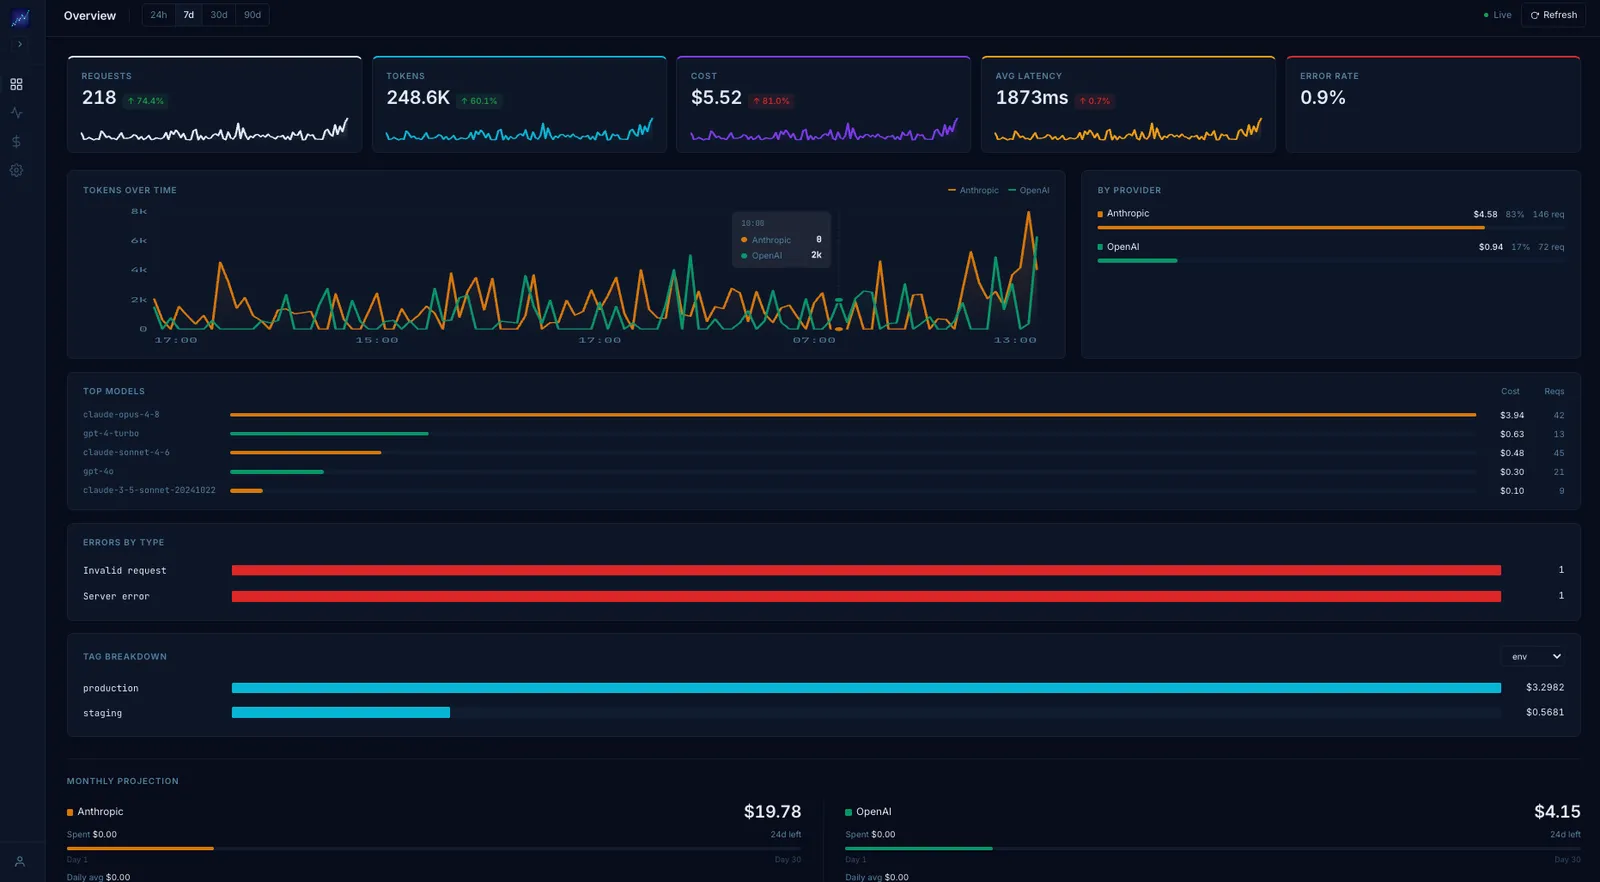
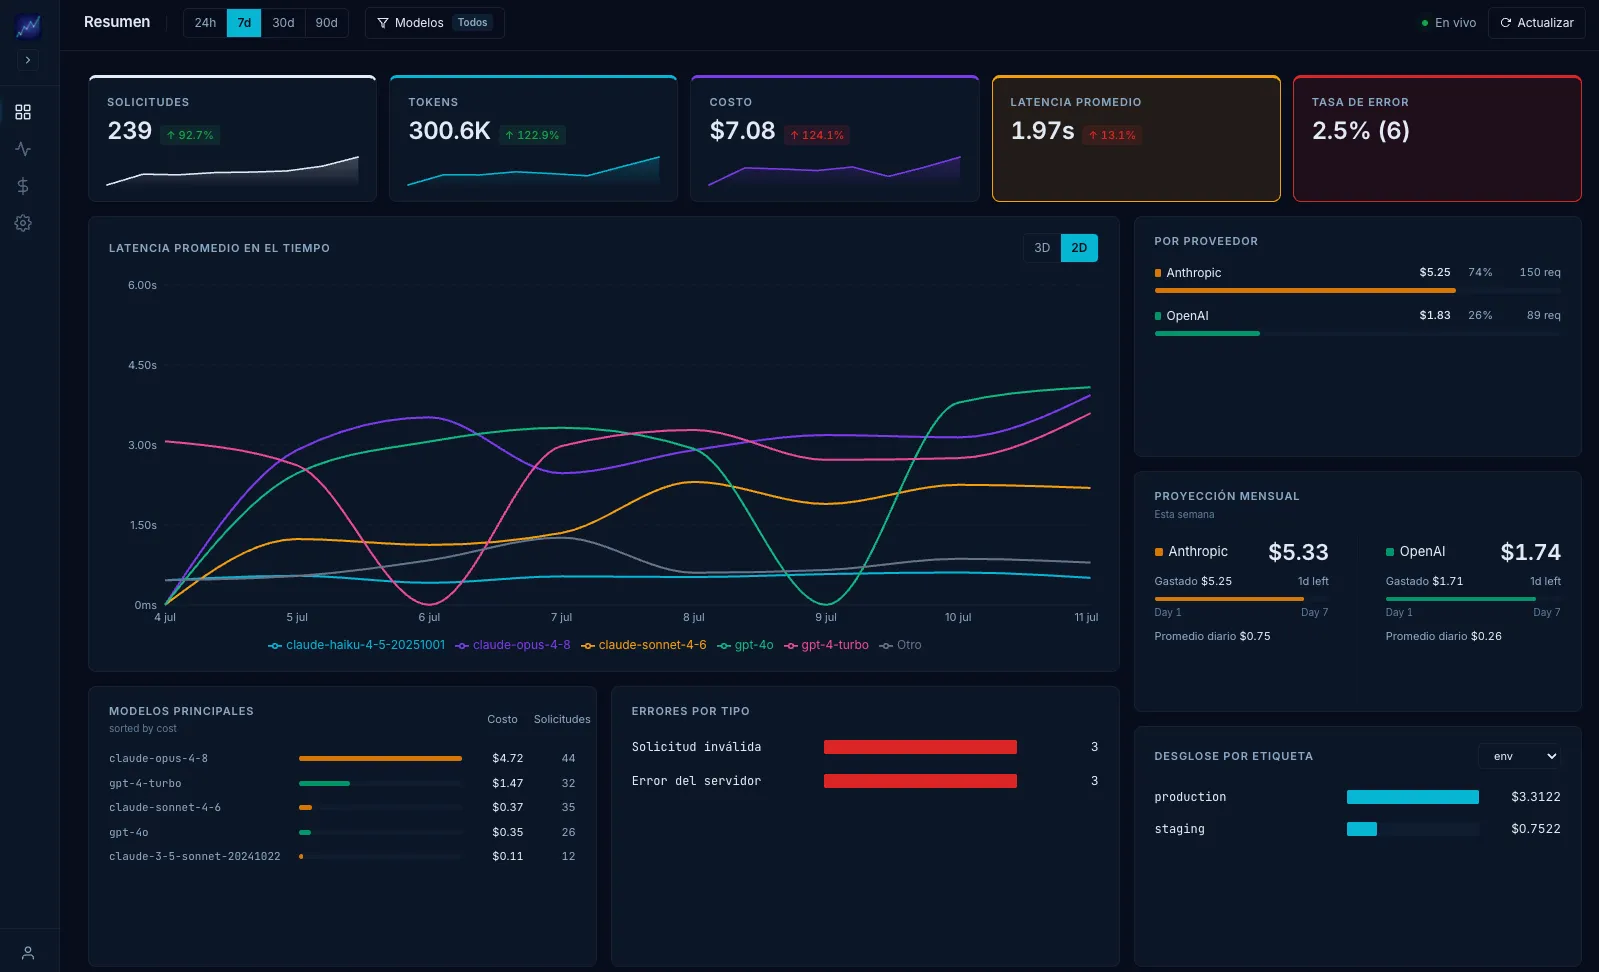
Feature/jotai gemini fallback (#29)
* feat: agregar trabajo en UTE y 3 proyectos nuevos (whisperX, XV-Tammy, Visual QC Inspector)

Agrega la experiencia laboral fija en UTE (Junior Developer, Dirección de
Sistemas Digitales) y tres proyectos: whisperX (microservicio de audio/IA),
XV-Tammy (invitaciones digitales con QR) y Visual QC Inspector (inspección
de calidad con Claude Vision). Incluye entradas en la trayectoria, cards de
proyecto, timeline de JotAI, skills (Oracle/PL-SQL/Obsidian) y screenshots
convertidos a WebP. También suma capturas nuevas para CodeReviewX.

* feat(seo,a11y): robots.txt/sitemap.xml, og:url real, honeypot y prefetch de modos

- Corrige canonical/og:url/JSON-LD a davidaucancela-portfolio.vercel.app
- Agrega robots.txt y sitemap.xml, copiados a la raíz de dist/ desde vite.config.js
- Honeypot anti-spam en el formulario de contacto (campo botcheck)
- prefers-reduced-motion en command-palette.css y project-detail.css
- Prefetch en idle de los JSON de proyectos de los modos no activos

Claude-Session: https://claude.ai/code/session_01F87j8PPyd22b1X2Pp3xu1N

* fix(analytics): eliminar script de Umami sin configurar

El data-website-id nunca se reemplazó (placeholder literal), y el
proyecto ya usa @vercel/analytics + @vercel/speed-insights. El script
solo agregaba una request bloqueada por ad-blockers sin cumplir función.

Claude-Session: https://claude.ai/code/session_01F87j8PPyd22b1X2Pp3xu1N

* feat(seo): generar og:image real (1200x630) y reemplazar placeholder SVG
[…]

diff --git a/api/jotai-chat.js b/api/jotai-chat.js
@@ -1,0 +1,105 @@
+// Vercel serverless function (Node runtime, ESM).
+// Genera la respuesta de fallback de JotAI vía Gemini, server-side, para no
+// exponer GEMINI_API_KEY al cliente. Único caller: js/ia-mascot.js (_askGeminiFallback).
+
+const MODEL = 'gemini-2.5-flash'; // verificar disponibilidad del modelo en la cuenta al desplegar
+const GEMINI_URL = `https://generativelanguage.googleapis.com/v1beta/models/${MODEL}:generateContent`;
+const MAX_QUERY_LENGTH = 300;
+const REQUEST_TIMEOUT_MS = 8000;
+
+const SYSTEM_INSTRUCTION = `Sos JotAI, el asistente conversacional del portfolio de Jonathan Aucancela.
+Respondé SIEMPRE en español, en 2 a 4 frases, con un tono cercano y directo.
+Usá EXCLUSIVAMENTE la información del CONTEXTO de abajo — nunca inventes datos que no estén ahí (nombres, tecnologías, enlaces, contacto, cifras, etc.).
+Si la pregunta del usuario no tiene relación con el CONTEXTO ni con el portfolio de Jonathan, decilo con amabilidad e invitalo a preguntar sobre sus proyectos, skills o trayectoria en su lugar — no respondas la pregunta ajena al tema.`;
+
+function buildContextBlock(context) {
+  const candidates = context?.candidates?.length
+    ? context.candidates
+    : [...(context?.featuredProjects || []), ...(context?.sampleSkills || [])];
+
+  if (!candidates.length) return 'Sin contexto adicional disponible.';
+
+  const lines = candidates
+    .slice(0, 5)
+    .map((c) => {
+      const d = c?.data || {};
+      if (d.title) {
+        const tags = Array.isArray(d.tags) ? d.tags.slice(0, 6).join(', ') : '';
+        return `- Proyecto "${d.title}": ${d.description || ''}${tags ? ` (tecnologías: ${tags})` : ''}`;
+      }
+      if (d.name) {
+        return `- Skill "${d.name}" (categoría: ${d.category || '?'}, nivel: ${d.nivel || '?'})`;
+      }
+      return null;
+    })
+    .filter(Boolean);
+
+  return lines.length ? lines.join('\n') : 'Sin contexto adicional disponible.';
+}
+
+function isAllowedOrigin(req) {
+  const allowed = process.env.ALLOWED_ORIGIN;
+  if (!allowed) return true; // sin configurar, no bloquea (evita romper deploys/previews nuevos)
+  const origin = req.headers.origin || req.headers.referer || '';
+  return origin.startsWith(allowed);
+}
+
+export default async function handler(req, res) {
+  if (req.method !== 'POST') {
+    res.status(405).json({ error: 'method_not_allowed' });
+    return;
+  }
+
+  if (!isAllowedOrigin(req)) {
+    res.status(403).json({ error: 'forbidden_origin' });
+    return;
+  }
+
+  const { query, context } = req.body || {};
+  if (typeof query !== 'string' || !query.trim() || query.length > MAX_QUERY_LENGTH) {
+    res.status(400).json({ error: 'invalid_query' });
+    return;
+  }
+
+  const apiKey = process.env.GEMINI_API_KEY;
+  if (!apiKey) {
+    res.status(500).json({ error: 'missing_api_key' });
+    return;
+  }
+
+  const prompt = `${SYSTEM_INSTRUCTION}\n\nCONTEXTO:\n${buildContextBlock(context)}\n\nPREGUNTA DEL USUARIO:\n${query.trim()}`;
+
+  const controller = new AbortController();
+  const timeout = setTimeout(() => controller.abort(), REQUEST_TIMEOUT_MS);
+
+  try {
+    const response = await fetch(`${GEMINI_URL}?key=${apiKey}`, {
+      method: 'POST',
+      headers: { 'Content-Type': 'application/json' },
+      signal: controller.signal,
+      body: JSON.stringify({
+        contents: [{ role: 'user', parts: [{ text: prompt }] }],
+        generationConfig: { maxOutputTokens: 220, temperature: 0.5 },
+      }),
+    });
+
+    if (!response.ok) {
+      res.status(502).json({ error: 'gemini_error' });
+      return;
+    }
+
+    const data = await response.json();
+    const text = data?.candidates?.[0]?.content?.parts?.[0]?.text?.trim();
+
+    if (!text) {
+      res.status(502).json({ error: 'empty_response' });
+      return;
+    }
+
+    res.status(200).json({ text });
+  } catch (err) {
+    res.status(502).json({ error: err.name === 'AbortError' ? 'timeout' : 'request_failed' });
+  } finally {
+    clearTimeout(timeout);
+  }
+}

diff --git a/js/ia-mascot.js b/js/ia-mascot.js
@@ -542,6 +542,50 @@ export const IaMascot = (() => {
     });
   }
 
+  /**
+   * Llama a api/jotai-chat.js (Gemini server-side) para generar la respuesta
+   * de fallback. Devuelve null ante cualquier error/timeout — el caller cae
+   * al mensaje enlatado local (_buildCannedFallback).
+   */
+  async function _askGeminiFallback(query, fallbackResult) {
+    const controller = new AbortController();
+    const timer = setTimeout(() => controller.abort(), 8000);
+    try {
+      const res = await fetch('/api/jotai-chat', {
+        method: 'POST',
+        headers: { 'Content-Type': 'application/json' },
+        signal: controller.signal,
+        body: JSON.stringify({ query, context: fallbackResult }),
+      });
+      if (!res.ok) return null;
+      const data = await res.json();
+      return typeof data?.text === 'string' && data.text.trim() ? data.text.trim() : null;
+    } catch {
+      return null; // red caída, timeout, JSON inválido, etc.
+    } finally {
+      clearTimeout(timer);
+    }
+  }
+
+  /** Mensaje de fallback local (3 niveles) — red de seguridad si Gemini falla. */
+  function _buildCannedFallback(fallbackResult, val) {
+    if (fallbackResult.level === 1) {
+      // Nivel 1: encontró con query expandida
+      const best = fallbackResult.candidates[0];
+      return `Hmm, no lo encontré literal, pero creo que buscas algo relacionado con **${best.data.name || best.data.title}**. ¿Es eso?`;
+    }
+    if (fallbackResult.level === 2) {
+      // Nivel 2: encontró por categoría/tags
+      const cats = fallbackResult.candidates.map(c => c.data.name || c.data.title).join(', ');
+      return `No encontré exactamente eso, pero Jonathan trabaja con **${cats}**. ¿Quizás uno de estos?`;
+    }
+    // Nivel 3: exploratoria (sin candidatos técnicos)
+    const projNames = fallbackResult.featuredProjects
+      .map(p => p.data.title)
+      .join(', ') || 'varios proyectos';
+    return `No encontré "**${val}**" en su portfolio. Pero Jonathan trabaja en **${projNames}** y otros. ¿Quieres saber más?`;
+  }
+
   /* ── DOM INJECTION ──────────────────────────────────────────── */
 
   function _inject() {
@@ -1162,23 +1206,8 @@ export const IaMascot = (() => {
       const fallbackResult = IAAssistant.getFallback(norm, kwResult?.entities || []);
 
       _setState('talking');
-      let fallbackMsg = '';
-
-      if (fallbackResult.level === 1) {
-        // Nivel 1: encontró con query expandida
-        const best = fallbackResult.candidates[0];
-        fallbackMsg = `Hmm, no lo encontré literal, pero creo que buscas algo relacionado con **${best.data.name || best.data.title}**. ¿Es eso?`;
-      } else if (fallbackResult.level === 2) {
-        // Nivel 2: encontró por categoría/tags
-        const cats = fallbackResult.candidates.map(c => c.data.name || c.data.title).join(', ');
-        fallbackMsg = `No encontré exactamente eso, pero Jonathan trabaja con **${cats}**. ¿Quizás uno de estos?`;
-      } else {
-        // Nivel 3: exploratoria (sin candidatos técnicos)
-        const projNames = fallbackResult.featuredProjects
-          .map(p => p.data.title)
-          .join(', ') || 'varios proyectos';
-        fallbackMsg = `No encontré "**${val}**" en su portfolio. Pero Jonathan trabaja en **${projNames}** y otros. ¿Quieres saber más?`;
-      }
+      const fallbackMsg = (await _askGeminiFallback(val, fallbackResult))
+        || _buildCannedFallback(fallbackResult, val);
 
       await _typewriterBotMessage(fallbackMsg);
       _setState('confused');
